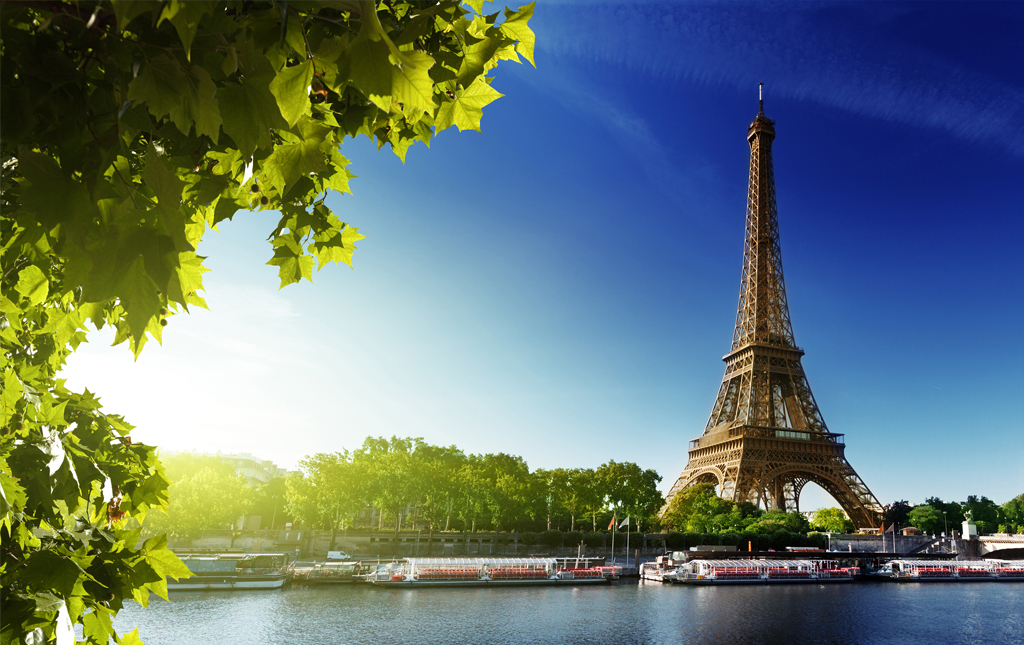
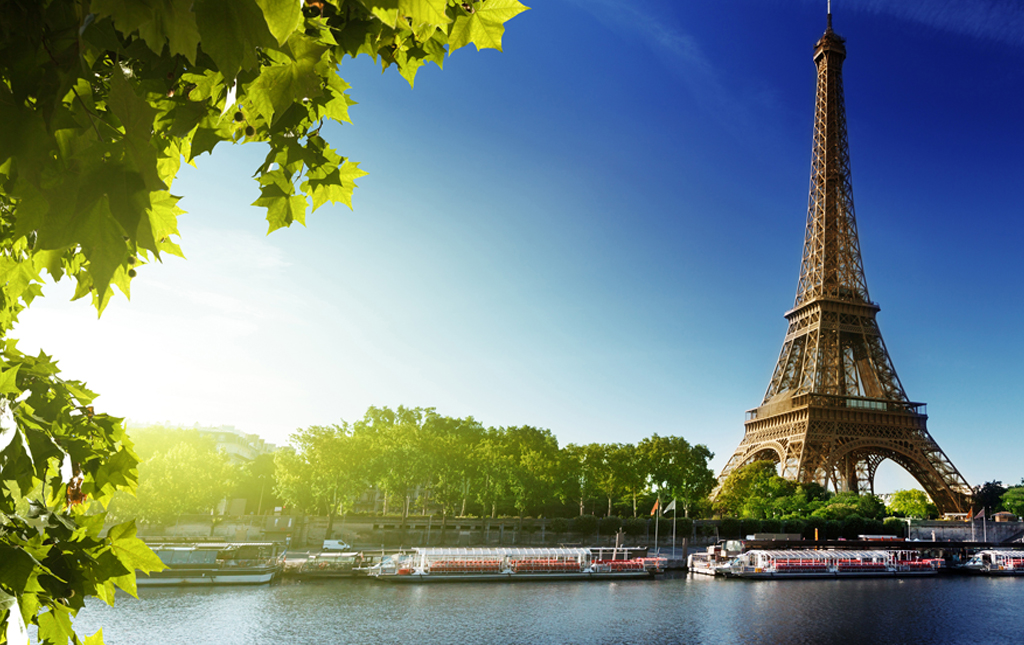
Remove input autocomplete suggestion in return trip, update new image in Abroad page

diff --git a/application/modules/lift/views/lift_create_view.php b/application/modules/lift/views/lift_create_view.php
@@ -14,10 +14,7 @@
 .ui-menu .ui-menu-item {background:#fff;}
 
 .label-width label {display:block; width:100px;}
-
-@media (max-width:920px) {
-	.span5 {width:100%;}
-}
+@media (max-width:920px) { .span5 {width:100%;} }
 </style>
 <div class="create-lift m-center-content">
 	<h2>Create your own lift</h2><br /><br />
@@ -320,15 +317,17 @@
 				<hr/>
 			<ul class="return-trip">
 				<li class="span5">
-					<label for="Departure">From: </label>
-					<span><input type="text" name="re_origin" value="<?php echo (isset($_POST['origin'])) ? set_value('origin') : ''?>" id="re_from" class="form-control" autocomplete="off"/></span>
-									
+					<label for="Departure">From:&nbsp;</label>
+					<span><input type="hidden" name="re_origin" value="<?php echo (isset($_POST['origin'])) ? set_value('origin') : ''?>" id="re_from" class="form-control" autocomplete="off"/></span>
+					<span class="re-origin"><strong>No chosen place yet</strong></span>
+					
 					<div class="clr"></div>
 				</li>
 				<li class="span5">
-					<label for="Departure">To: </label>
-					<span><input type="text" name="re_destination" value="<?php echo (isset($_POST['origin'])) ? set_value('origin') : ''?>" id="re_destination" class="form-control" autocomplete="off"/></span>
-										
+					<label for="Departure">To:&nbsp;</label>
+					<span><input type="hidden" name="re_destination" value="<?php echo (isset($_POST['origin'])) ? set_value('origin') : ''?>" id="re_destination" class="form-control" autocomplete="off"/></span>
+					<span class="re-destination"><strong>No chosen place yet</strong></span>
+					
 					<div class="clr"></div>
 				</li>
 				<li class="span5">
@@ -459,7 +458,6 @@
 
 <div class="clr"></div>
 
-<script type="text/javascript" src="<?php echo base_url('assets/js/jquery-1.7.2.js')?>"></script>
 <script type="text/javascript" src="<?php echo base_url('assets/js/jquery-ui.js')?>"></script>
 <script type="text/javascript" src="<?php echo base_url('assets/js/bootstrap.js')?>"></script>
 <script type="text/javascript" src="<?php echo base_url('assets/js/bootstrap-select.js')?>"></script>
@@ -469,29 +467,9 @@
 <script src="https://maps.googleapis.com/maps/api/js?v=3.exp&region=DE&libraries=places&language=de"></script>  
 <script type="text/javascript">
 $(window).load(function() {initialize();});
-
-var from, re_from, destination, re_destination, via, re_via;
-
-function initialize() {
-	from = new google.maps.places.Autocomplete((document.getElementById('from')), { types: ['geocode'] });
-	re_from = new google.maps.places.Autocomplete((document.getElementById('re_from')), { types: ['geocode'] });
-	destination = new google.maps.places.Autocomplete((document.getElementById('destination')), { types: ['geocode'] });
-	re_destination = new google.maps.places.Autocomplete((document.getElementById('re_destination')), { types: ['geocode'] });
-	via = new google.maps.places.Autocomplete((document.getElementById('via')), { types: ['geocode'] });
-	re_via = new google.maps.places.Autocomplete((document.getElementById('re_via')), { types: ['geocode'] });
-	// google.maps.event.addListener(destination, 'place_changed', function() { fillInAddress(); });
-}
-
-function geolocate() {
-	if (navigator.geolocation) {
-		navigator.geolocation.getCurrentPosition(function(position) {
-			var geolocation = new google.maps.LatLng(
-			
-			position.coords.latitude, position.coords.longitude);
-			destination.setBounds(new google.maps.LatLngBounds(geolocation, geolocation));
-		});
-	}
-}
+var from, destination, via, re_via;
+function initialize() { from = new google.maps.places.Autocomplete((document.getElementById('from')), { types: ['geocode'] }); destination = new google.maps.places.Autocomplete((document.getElementById('destination')), { types: ['geocode'] }); via = new google.maps.places.Autocomplete((document.getElementById('via')), { types: ['geocode'] }); re_via = new google.maps.places.Autocomplete((document.getElementById('re_via')), { types: ['geocode'] }); }
+function geolocate() { if (navigator.geolocation) { navigator.geolocation.getCurrentPosition(function(position) { var geolocation = new google.maps.LatLng( position.coords.latitude, position.coords.longitude); destination.setBounds(new google.maps.LatLngBounds(geolocation, geolocation)); }); } }
 
 function checkbox(checkboxName){
 	var checkBox = $('input[name="'+ checkboxName +'"]');
@@ -504,91 +482,55 @@ function checkbox(checkboxName){
 	$(checkBox).click(function(){ $(this).parent().toggleClass("selected"); });
 }
 
+jQuery.fn.ForceNumericOnly = function()
+{
+    return this.each(function()
+    {
+        $(this).keydown(function(e)
+        {
+            var key = e.charCode || e.keyCode || 0;
+            // allow backspace, tab, delete, enter, arrows, numbers and keypad numbers ONLY
+            // home, end, period, and numpad decimal
+            return (
+                key == 8 || 
+                key == 9 ||
+                key == 13 ||
+                key == 46 ||
+                key == 110 ||
+                key == 190 ||
+                (key >= 35 && key <= 40) ||
+                (key >= 48 && key <= 57) ||
+                (key >= 96 && key <= 105));
+        });
+    });
+};
+
 $(function() {
+	$('amount, re_amount').ForceNumericOnly();
 	$('.bt-dropdown').selectpicker();
 	checkbox("re_route");
 	checkbox("offer_re_route");
 	
 	$('input[name="create_lift_submit"]').click(function(e) {
 		e.preventDefault();
-		var origin		= $('input[name="origin"]'),
-			destination = $('input[name="destination"]'),
-			via 		= $('input[name="via"]'),
-			dates		= $('input[name="dates"]'),
-			seat_amount	= $('input[name="seat_amount"]'),
-			hours		= $('select[name="hours"]'),
-			minute		= $('select[name="minute"]'),
-			seat		= $('select[name="seat_available"]'),
-			storage		= $('select[name="storage"]'),
-			preference	= $('input[name="preference[]"]'),
-			remarks		= $('textarea[name="remarks"]'),
-			error		= 0;
-		var re_origin		= $('input[name="re_origin"]'),
-			re_destination 	= $('input[name="re_destination"]'),
-			re_via 			= $('input[name="re_via"]'),
-			re_dates		= $('input[name="re_dates"]'),
-			re_amount		= $('input[name="re_amount"]'),
-			re_hours		= $('select[name="re_hours"]'),
-			re_minute		= $('select[name="re_minute"]'),
-			re_seat			= $('select[name="re_seat_available"]'),
-			re_storage		= $('select[name="re_storage"]'),
-			re_preference	= $('input[name="re_preference[]"]'),
-			re_remarks		= $('textarea[name="re_remarks"]'),
-			re_error		= 0;
+		var origin = $('input[name="origin"]'), destination = $('input[name="destination"]'), via = $('input[name="via"]'), dates = $('input[name="dates"]'), seat_amount	= $('input[name="seat_amount"]'), hours = $('select[name="hours"]'), minute	= $('select[name="minute"]'), seat = $('select[name="seat_available"]'), storage = $('select[name="storage"]'), preference = $('input[name="preference[]"]'), remarks = $('textarea[name="remarks"]'), error = 0;
+		var re_origin = $('input[name="re_origin"]'), re_destination = $('input[name="re_destination"]'), re_via = $('input[name="re_via"]'), re_dates = $('input[name="re_dates"]'), re_amount = $('input[name="re_amount"]'), re_hours = $('select[name="re_hours"]'), re_minute = $('select[name="re_minute"]'), re_seat = $('select[name="re_seat_available"]'), re_storage = $('select[name="re_storage"]'), re_preference = $('input[name="re_preference[]"]'), re_remarks = $('textarea[name="re_remarks"]'), re_error = 0;
 		
 		$('*').removeClass('error-bd');
 		$('.dates-req').html("");
 		
-		if(origin.val() == '') {
-			origin.addClass('error-bd');
-			error = 1;
-		}
-		
-		if(destination.val() == '') {
-			destination.addClass('error-bd');
-			error = 1;
-		}
-		
-		if(dates.val() == '') {
-			$('.dates-req').html('The Date is required.').addClass('error').css({marginLeft:'100px'});
-			error = 1;
-		}
-		
-		if(seat_amount.val() == '') {
-			seat_amount.addClass('error-bd');
-			error = 1;
-		}
-		
+		if(origin.val() == '') { origin.addClass('error-bd'); error = 1; }
+		if(destination.val() == '') { destination.addClass('error-bd'); error = 1; }
+		if(dates.val() == '') { $('.dates-req').html('The Date is required.').addClass('error').css({marginLeft:'100px'}); error = 1; }		
+		if(seat_amount.val() == '') { seat_amount.addClass('error-bd'); error = 1; }	
 		if($('input[name="offer_re_route"]').is(':checked')) {
-
-
 			$('*').removeClass('re_error_bd');	
 				
-			if(re_origin.val() == '') {
-				re_origin.addClass('re_error_bd');
-				re_error = 1;
-			}
-			
-			if(re_destination.val() == '') {
-				re_destination.addClass('re_error_bd');
-				re_error = 1;
-			}
-			
-			if(re_dates.val() == '') {
-				re_dates.addClass('re_error_bd');
-				re_error = 1;
-			}
-			
-			if(re_amount.val() == '') {
-				re_amount.addClass('re_error_bd');
-				re_error = 1;
-			}
-			
-			if(re_error == 0) {
-				console.log('Success');
-			} else {
-				return false;
-			}
+			if(re_origin.val() == '') { re_origin.addClass('re_error_bd'); re_error = 1; }
+			if(re_destination.val() == '') { re_destination.addClass('re_error_bd'); re_error = 1; }
+			if(re_dates.val() == '') { re_dates.addClass('re_error_bd'); re_error = 1; }
+			if(re_amount.val() == '') { re_amount.addClass('re_error_bd'); re_error = 1; }
+			if(re_error == 0) { console.log('Success'); } else { return false; }
 		}
 		
 		if(error == 0) {
@@ -599,36 +541,9 @@ $(function() {
 			$('input[name="re_preference[]"]:checkbox:checked').each(function(i){ re_preference_array[i] = $(this).val(); });
 			
 			$.ajax({
-				url 	: '<?php echo base_url('lift/insert_create')?>',
+				url 	: base_url+'lift/insert_create',
 				type	: 'POST',
-				data	: {
-					origin:origin.val(),
-					destination:destination.val(),
-					via:via.val(),
-					dates:dates.val(),
-					seat_amount:seat_amount.val(),
-					hours:hours.val(),
-					minute:minute.val(),
-					seat:seat.val(),
-					storage:storage.val(),
-					preference:preference_array,
-					remarks:remarks.val(),
-					re_origin:re_origin.val(),
-					re_destination:re_destination.val(),
-					re_via:re_via.val(),
-					re_destination:re_destination.val(),
-					re_dates:re_dates.val(),
-					re_amount:re_amount.val(),
-					re_hours:re_hours.val(),
-					re_minute:re_minute.val(),
-					re_seat:re_seat.val(),
-					re_storage:re_storage.val(),
-					re_preference:re_preference_array,
-					re_remarks:re_remarks.val()
-				},
-				success	: function(data) {
-					window.location.href = '<?php echo base_url('lift/create_success')?>';
-				}
+				data	: { origin:origin.val(), destination:destination.val(), via:via.val(), dates:dates.val(), seat_amount:seat_amount.val(), hours:hours.val(), minute:minute.val(), seat:seat.val(), storage:storage.val(), preference:preference_array, remarks:remarks.val(), re_origin:re_origin.val(), re_destination:re_destination.val(), re_via:re_via.val(), re_destination:re_destination.val(), re_dates:re_dates.val(), re_amount:re_amount.val(), re_hours:re_hours.val(), re_minute:re_minute.val(), re_seat:re_seat.val(), re_storage:re_storage.val(), re_preference:re_preference_array, re_remarks:re_remarks.val() }, success:function(data) { window.location.href = base_url+'lift/create_success'; }
 			});
 		} else {
 			return false;
@@ -642,6 +557,13 @@ $(function() {
 			$('#return-trip').slideUp();
 		}
 	});
+	
+	setInterval(function() {
+		$('.re-origin').html(($('input[name="destination"]').val() == '') ? '<strong>No chosen place yet</strong>' : '<strong>'+$('input[name="destination"]').val()+'</strong>');
+		$('input[name="re_origin"]').val(($('input[name="destination"]').val() == '') ? '' : $('input[name="destination"]').val());
+		$('.re-destination').html(($('input[name="origin"]').val() == '') ? '<strong>No chosen place yet</strong>' : '<strong>'+$('input[name="origin"]').val()+'</strong>');
+		$('input[name="re_destination"]').val(($('input[name="origin"]').val() == '') ? '' : $('input[name="origin"]').val());
+	}, 1000);
 	
 	$('#calendar').click(function() {
 		var getDates		= $(this).multiDatesPicker('getDates'),

diff --git a/application/modules/template/views/includes/header_view.php b/application/modules/template/views/includes/header_view.php
@@ -21,7 +21,11 @@
 	<link type="text/css" rel="stylesheet" href="<?php echo base_url('assets/css/style.css')?>"/>
 	<link type="text/css" rel="stylesheet" href="<?php echo base_url('assets/css/editor.css')?>"/>
 	
+	<?php if($this->uri->segment(2) == 'create'):?>
+	<script type="text/javascript" src="<?php echo base_url('assets/js/jquery-1.7.2.js')?>"></script>
+	<?php else:?>
 	<script type="text/javascript" src="<?php echo base_url('assets/js/jquery-1.11.0.min.js')?>"></script>
+	<?php endif?>
 	<script type="text/javascript" src="<?php echo base_url('assets/js/jquery.nicescroll.min.js')?>"></script>
 	<script type="text/javascript">
     document.createElement('section');
@@ -32,7 +36,7 @@
 	
 	var height = $(window).height(), base_url = '<?php echo base_url()?>';
 	
-	$(function() {$('.login a:first-child').hover(function(){$('.login ul').stop(true,false).fadeIn().show();},function(){$('.login ul').fadeOut(); });$('.nav-dropdown').click(function(){ $('.menu ul').slideToggle();});$('html').niceScroll({autohidemode:'false',cursorborderradius:'0px',background:'#E5E9E7',cursorwidth:'10px',cursorcolor:'#999999'});});
+	$(function() { $('.login a:first-child').hover(function(){ $('.login ul').stop(true,false).fadeIn().show(); },function(){ $('.login ul').fadeOut(); }); $('.nav-dropdown').click(function(){ $('.menu ul').slideToggle(); }); $('html').niceScroll({autohidemode:'false',cursorborderradius:'0px',background:'#E5E9E7',cursorwidth:'10px',cursorcolor:'#999999'}); });
 	</script>
 	<style type="text/css">.nicescroll-rails {z-index:99 !important;} .nicescroll-rails div {width:10px !important;}</style>
 </head>
